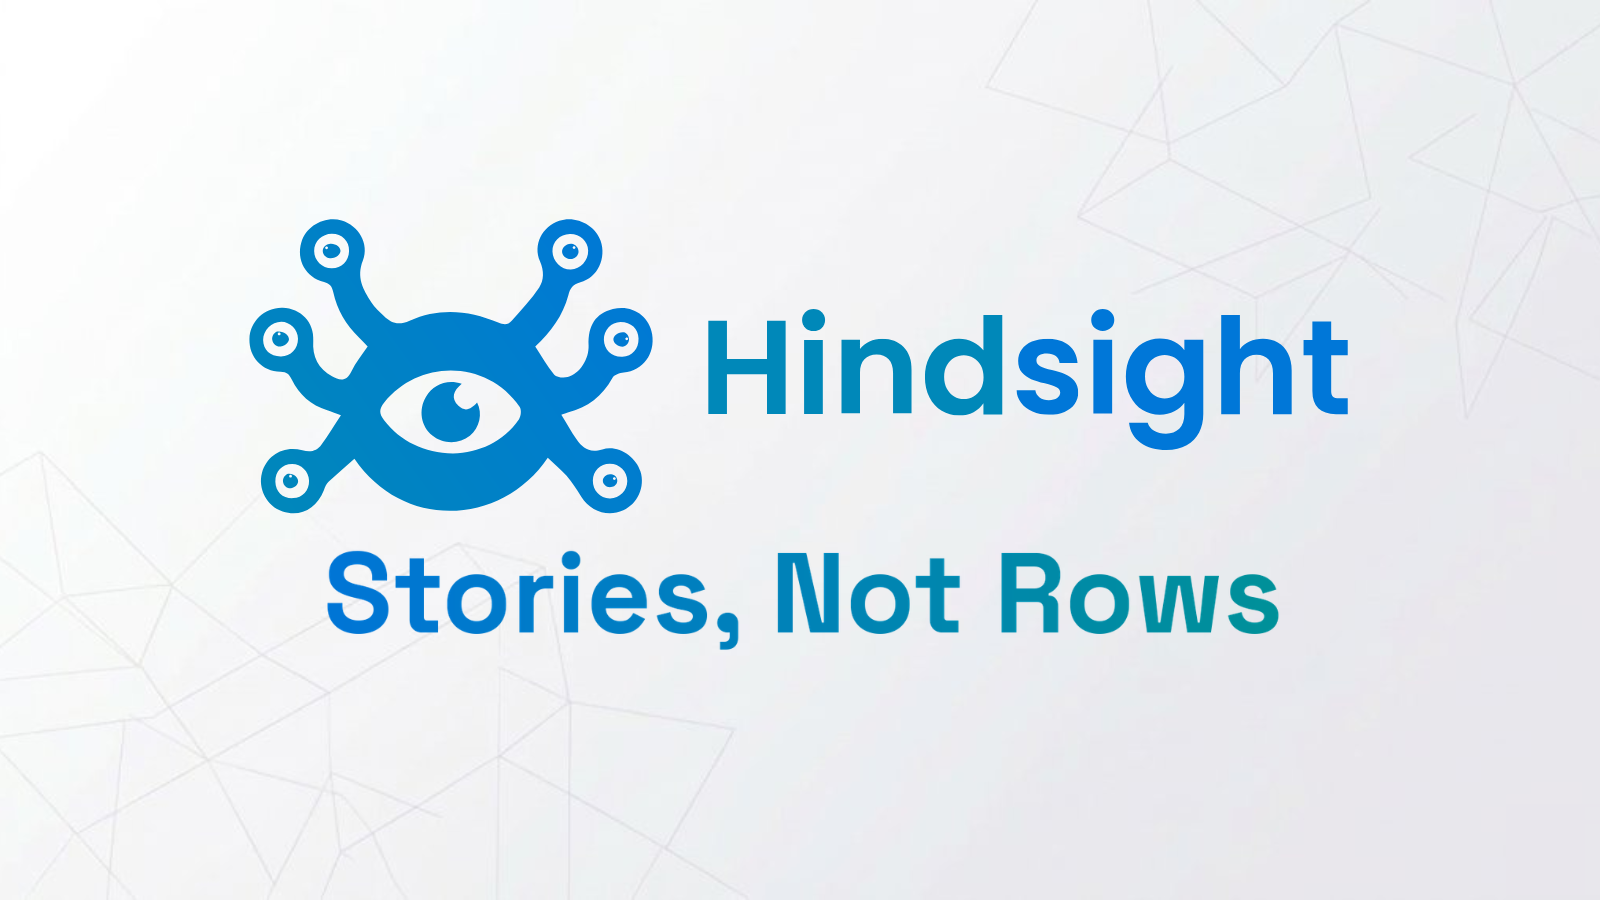
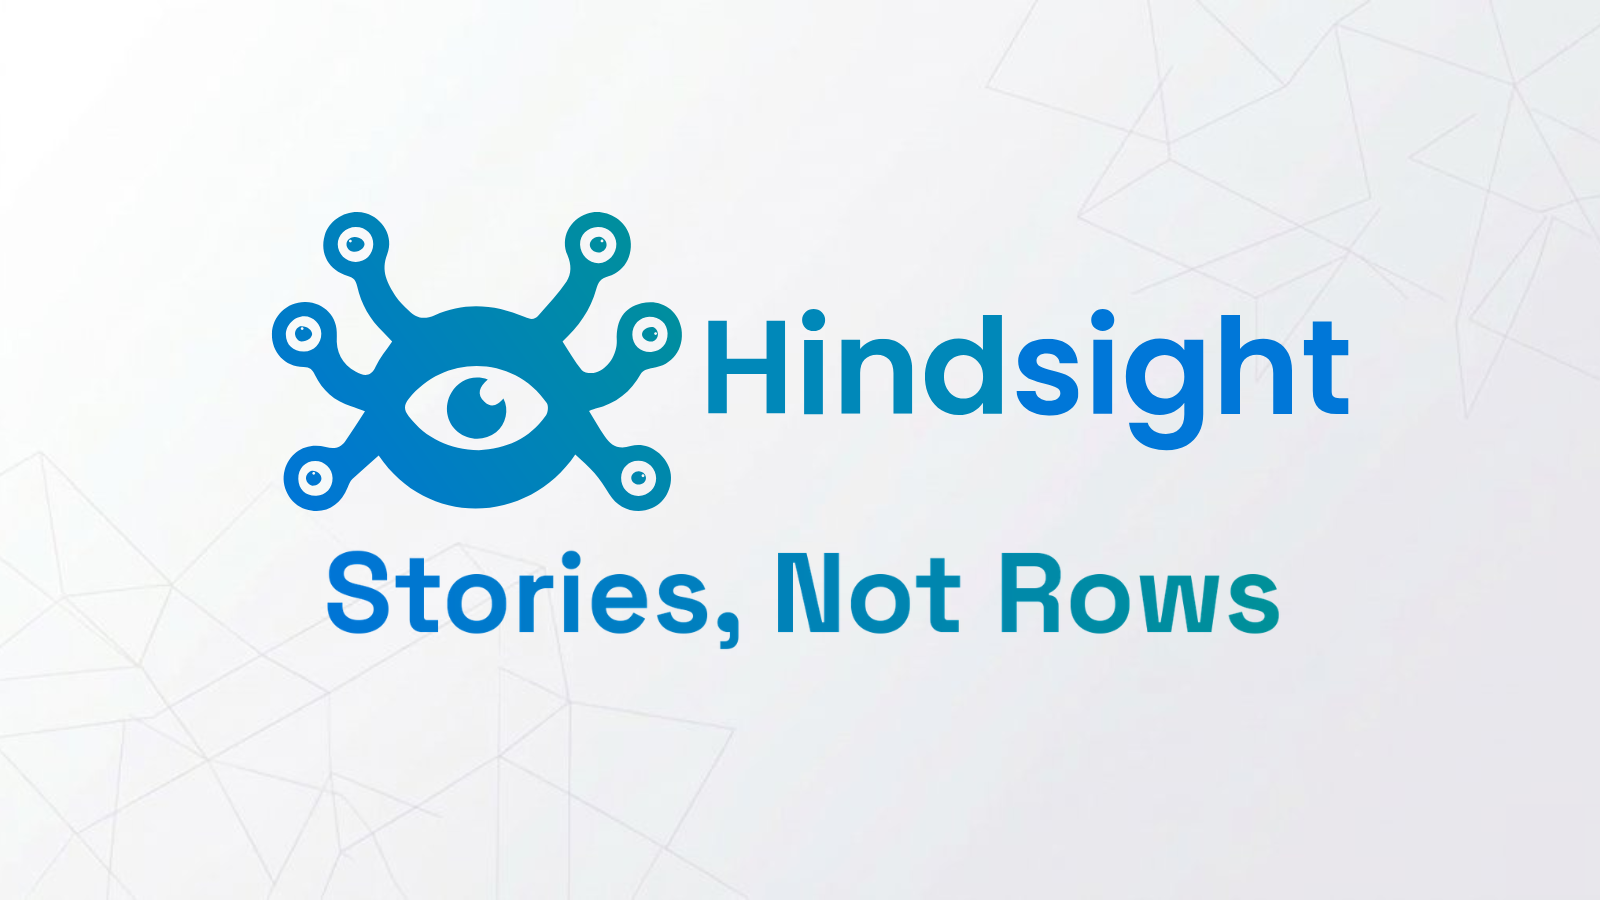
fix: update cover image and signup links for spreading activation post

diff --git a/hindsight-docs/blog/2026-03-12-spreading-activation-memory-graphs.md b/hindsight-docs/blog/2026-03-12-spreading-activation-memory-graphs.md
@@ -14,7 +14,7 @@ Most retrieval systems treat time as a filter. We treat it as a dimension to tra
 
 When an agent gets a question like "What happened during the product launch last March?", a naive "filter by March" query is nowhere near enough. The real answer lives in the story around that window: the prep work in January and February, the domino effects in April, the bugs that nearly killed the demo, the customer reactions that followed. We wanted retrieval that could reconstruct that story, not just return rows.
 
-Temporal spreading activation is how we do it in [Hindsight](https://hindsight.vectorize.io): a time-anchored graph traversal that starts from a temporal window, then walks causal and temporal links to build a coherent sequence of events. The idea draws on [spreading activation theory from cognitive science](https://en.wikipedia.org/wiki/Spreading_activation) — originally proposed by Collins and Loftus in 1975 to model how human memory retrieval works by propagating activation through semantic networks — but adapted here for structured memory graphs with explicit temporal and causal edges.
+Temporal spreading activation is how we do it in [Hindsight](https://ui.hindsight.vectorize.io/signup): a time-anchored graph traversal that starts from a temporal window, then walks causal and temporal links to build a coherent sequence of events. The idea draws on [spreading activation theory from cognitive science](https://en.wikipedia.org/wiki/Spreading_activation) — originally proposed by Collins and Loftus in 1975 to model how human memory retrieval works by propagating activation through semantic networks — but adapted here for structured memory graphs with explicit temporal and causal edges.
 
 ## The problem: time is not just a WHERE clause
 
@@ -361,4 +361,4 @@ Most importantly, the agent no longer treats time as a dumb filter. It treats it
 
 ---
 
-*Hindsight is an AI agent memory system that gives your agents persistent, structured memory with hybrid retrieval. [Learn more about how Hindsight works](https://hindsight.vectorize.io), or [read our docs on the retrieval architecture](https://docs.hindsight.vectorize.io/recall).*
+*Hindsight is an AI agent memory system that gives your agents persistent, structured memory with hybrid retrieval. [Learn more about how Hindsight works](https://ui.hindsight.vectorize.io/signup), or [read our docs on the retrieval architecture](https://docs.hindsight.vectorize.io/recall).*
